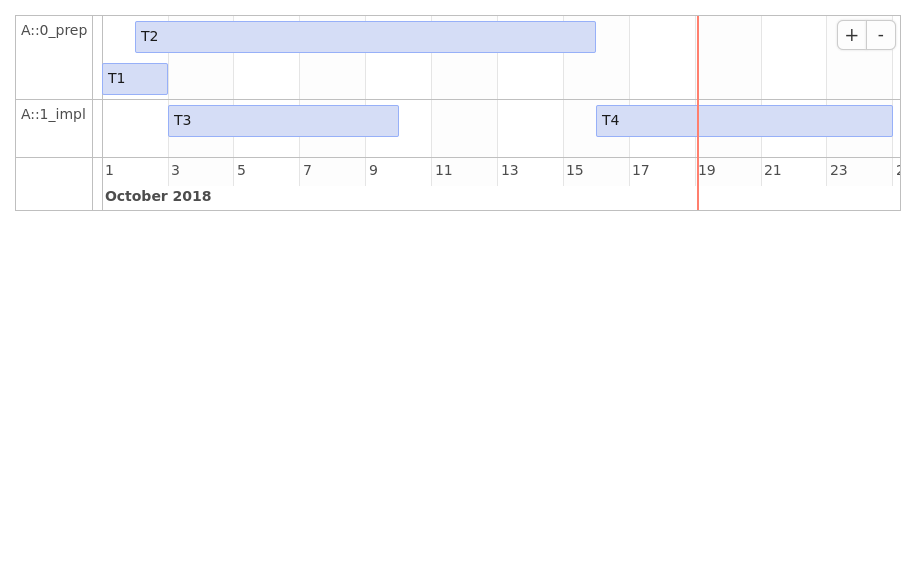
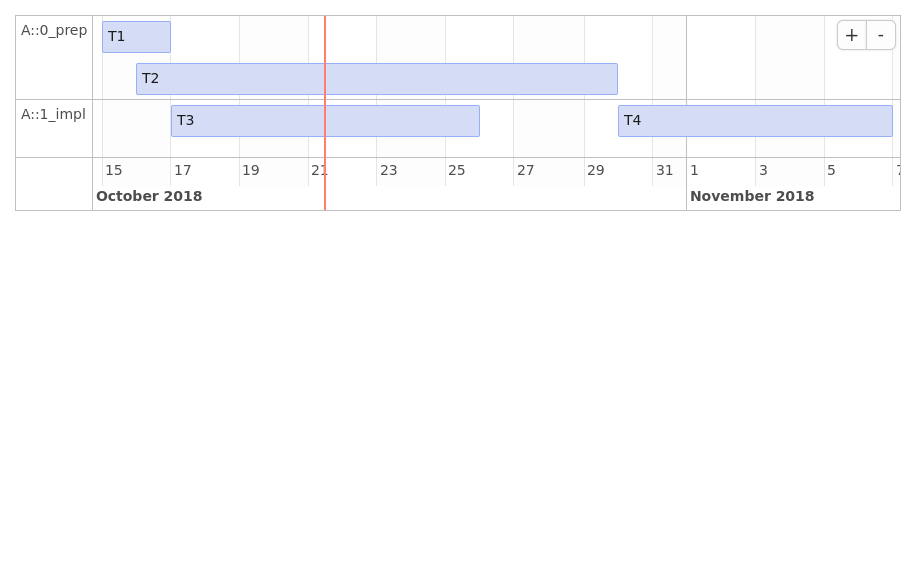
gantt chart contains a label for tasks with deadlines

Changed region(s): [[0.0, 0.0299, 0.9803, 0.3891], [0.919, 0.0599, 0.9803, 0.0898]]

diff --git a/README.md b/README.md
@@ -17,7 +17,7 @@ that may depend on each other.
 Imagine a simple 4-task-plan, where
 
   - 1 task was already completed
-  - 1 task started on *2018-10-02* where it is estimated that it will
+  - 1 task started on *2018-10-16* where it is estimated that it will
     take 10 days to be completed
   - 2 tasks are depending somehow on the first two tasks
 
@@ -26,15 +26,15 @@ Imagine a simple 4-task-plan, where
 ``` r
 raw_plan
 #>    project section id depends_on      start        end resource task
-#> 1:       A  0_prep  a       <NA> 2018-10-01 2018-10-03       R1   T1
-#> 2:       A  0_prep  b       <NA> 2018-10-02         10       R2   T2
-#> 3:       A  1_impl  c          a       <NA>          5       R1   T3
-#> 4:       A  1_impl  d       a, b       <NA>          7       R2   T4
+#> 1:       A  0_prep  a       <NA> 2018-10-15 2018-10-17       R1   T1
+#> 2:       A  0_prep  b       <NA> 2018-10-16         10       R2   T2
+#> 3:       A  1_impl  c          a       <NA>          7       R1   T3
+#> 4:       A  1_impl  d       a, b       <NA>          6       R2   T4
 #>    progress   deadline
 #> 1:      100       <NA>
 #> 2:       50       <NA>
-#> 3:        0       <NA>
-#> 4:        0 2018-10-18
+#> 3:        0 2018-10-29
+#> 4:        0 2018-11-07
 ```
 
 Then using this package one can easily calculate when a task will start
@@ -45,10 +45,10 @@ is due today a warning is logged.
 plan <- 
   projectPlan::wrangle_raw_plan(raw_plan) %>% 
   projectPlan::calculate_time_lines()
-#> WARN [2018-10-19 01:02:00] DEADLINE TODAY OR ALREADY UNMET (change logging-threshold to INFO to see all columns)
+#> WARN [2018-10-21 11:13:12] DEADLINE TODAY OR ALREADY UNMET (change logging-threshold to INFO to see all columns)
 #> 
 #>    project   section   id time_start   time_end   deadline progress
-#> 1:       A A::1_impl A::d 2018-10-16 2018-10-25 2018-10-18        0
+#> 1:       A A::1_impl A::d 2018-10-30 2018-11-07 2018-11-07        0
 #>    resource task
 #> 1:       R2   T4
 ```
@@ -59,15 +59,15 @@ plan <-
     #> 3:       A A::c       A::a  <NA>      A::a A::1_impl       R1   T3
     #> 4:       A A::d  A::a,A::b  <NA> A::a,A::b A::1_impl       R2   T4
     #>    progress   deadline fixed_start_date fixed_end_date est_days waiting
-    #> 1:      100       <NA>       2018-10-01     2018-10-03        0   FALSE
-    #> 2:       50       <NA>       2018-10-02           <NA>       10   FALSE
-    #> 3:        0       <NA>             <NA>           <NA>        5   FALSE
-    #> 4:        0 2018-10-18             <NA>           <NA>        7   FALSE
-    #>    nmb_combined_entries time_start   time_end dist_deadline
-    #> 1:                    1 2018-10-01 2018-10-03       NA days
-    #> 2:                    1 2018-10-02 2018-10-16       NA days
-    #> 3:                    1 2018-10-03 2018-10-10       NA days
-    #> 4:                    1 2018-10-16 2018-10-25       -7 days
+    #> 1:      100       <NA>       2018-10-15     2018-10-17        0   FALSE
+    #> 2:       50       <NA>       2018-10-16           <NA>       10   FALSE
+    #> 3:        0 2018-10-29             <NA>           <NA>        7   FALSE
+    #> 4:        0 2018-11-07             <NA>           <NA>        6   FALSE
+    #>    nmb_combined_entries time_start   time_end dist_end_to_deadline
+    #> 1:                    1 2018-10-15 2018-10-17              NA days
+    #> 2:                    1 2018-10-16 2018-10-30              NA days
+    #> 3:                    1 2018-10-17 2018-10-26               3 days
+    #> 4:                    1 2018-10-30 2018-11-07               0 days
 
 With the calculated time lines a gantt chart can be plotted
 
@@ -77,6 +77,11 @@ projectPlan::gantt_by_sections(plan, show_dependencies = TRUE)
 ```
 
 ![](README-gantt-1.png)<!-- -->
+
+Note that currently the number of days the end date of a task is away
+from the corresponding deadline is not adjusted for weekends, for
+instance *T3* ends on Thrusday and the deadline is on the following
+Monday. This will be improved in the near future.
 
 ## Other packages for visualization
 
